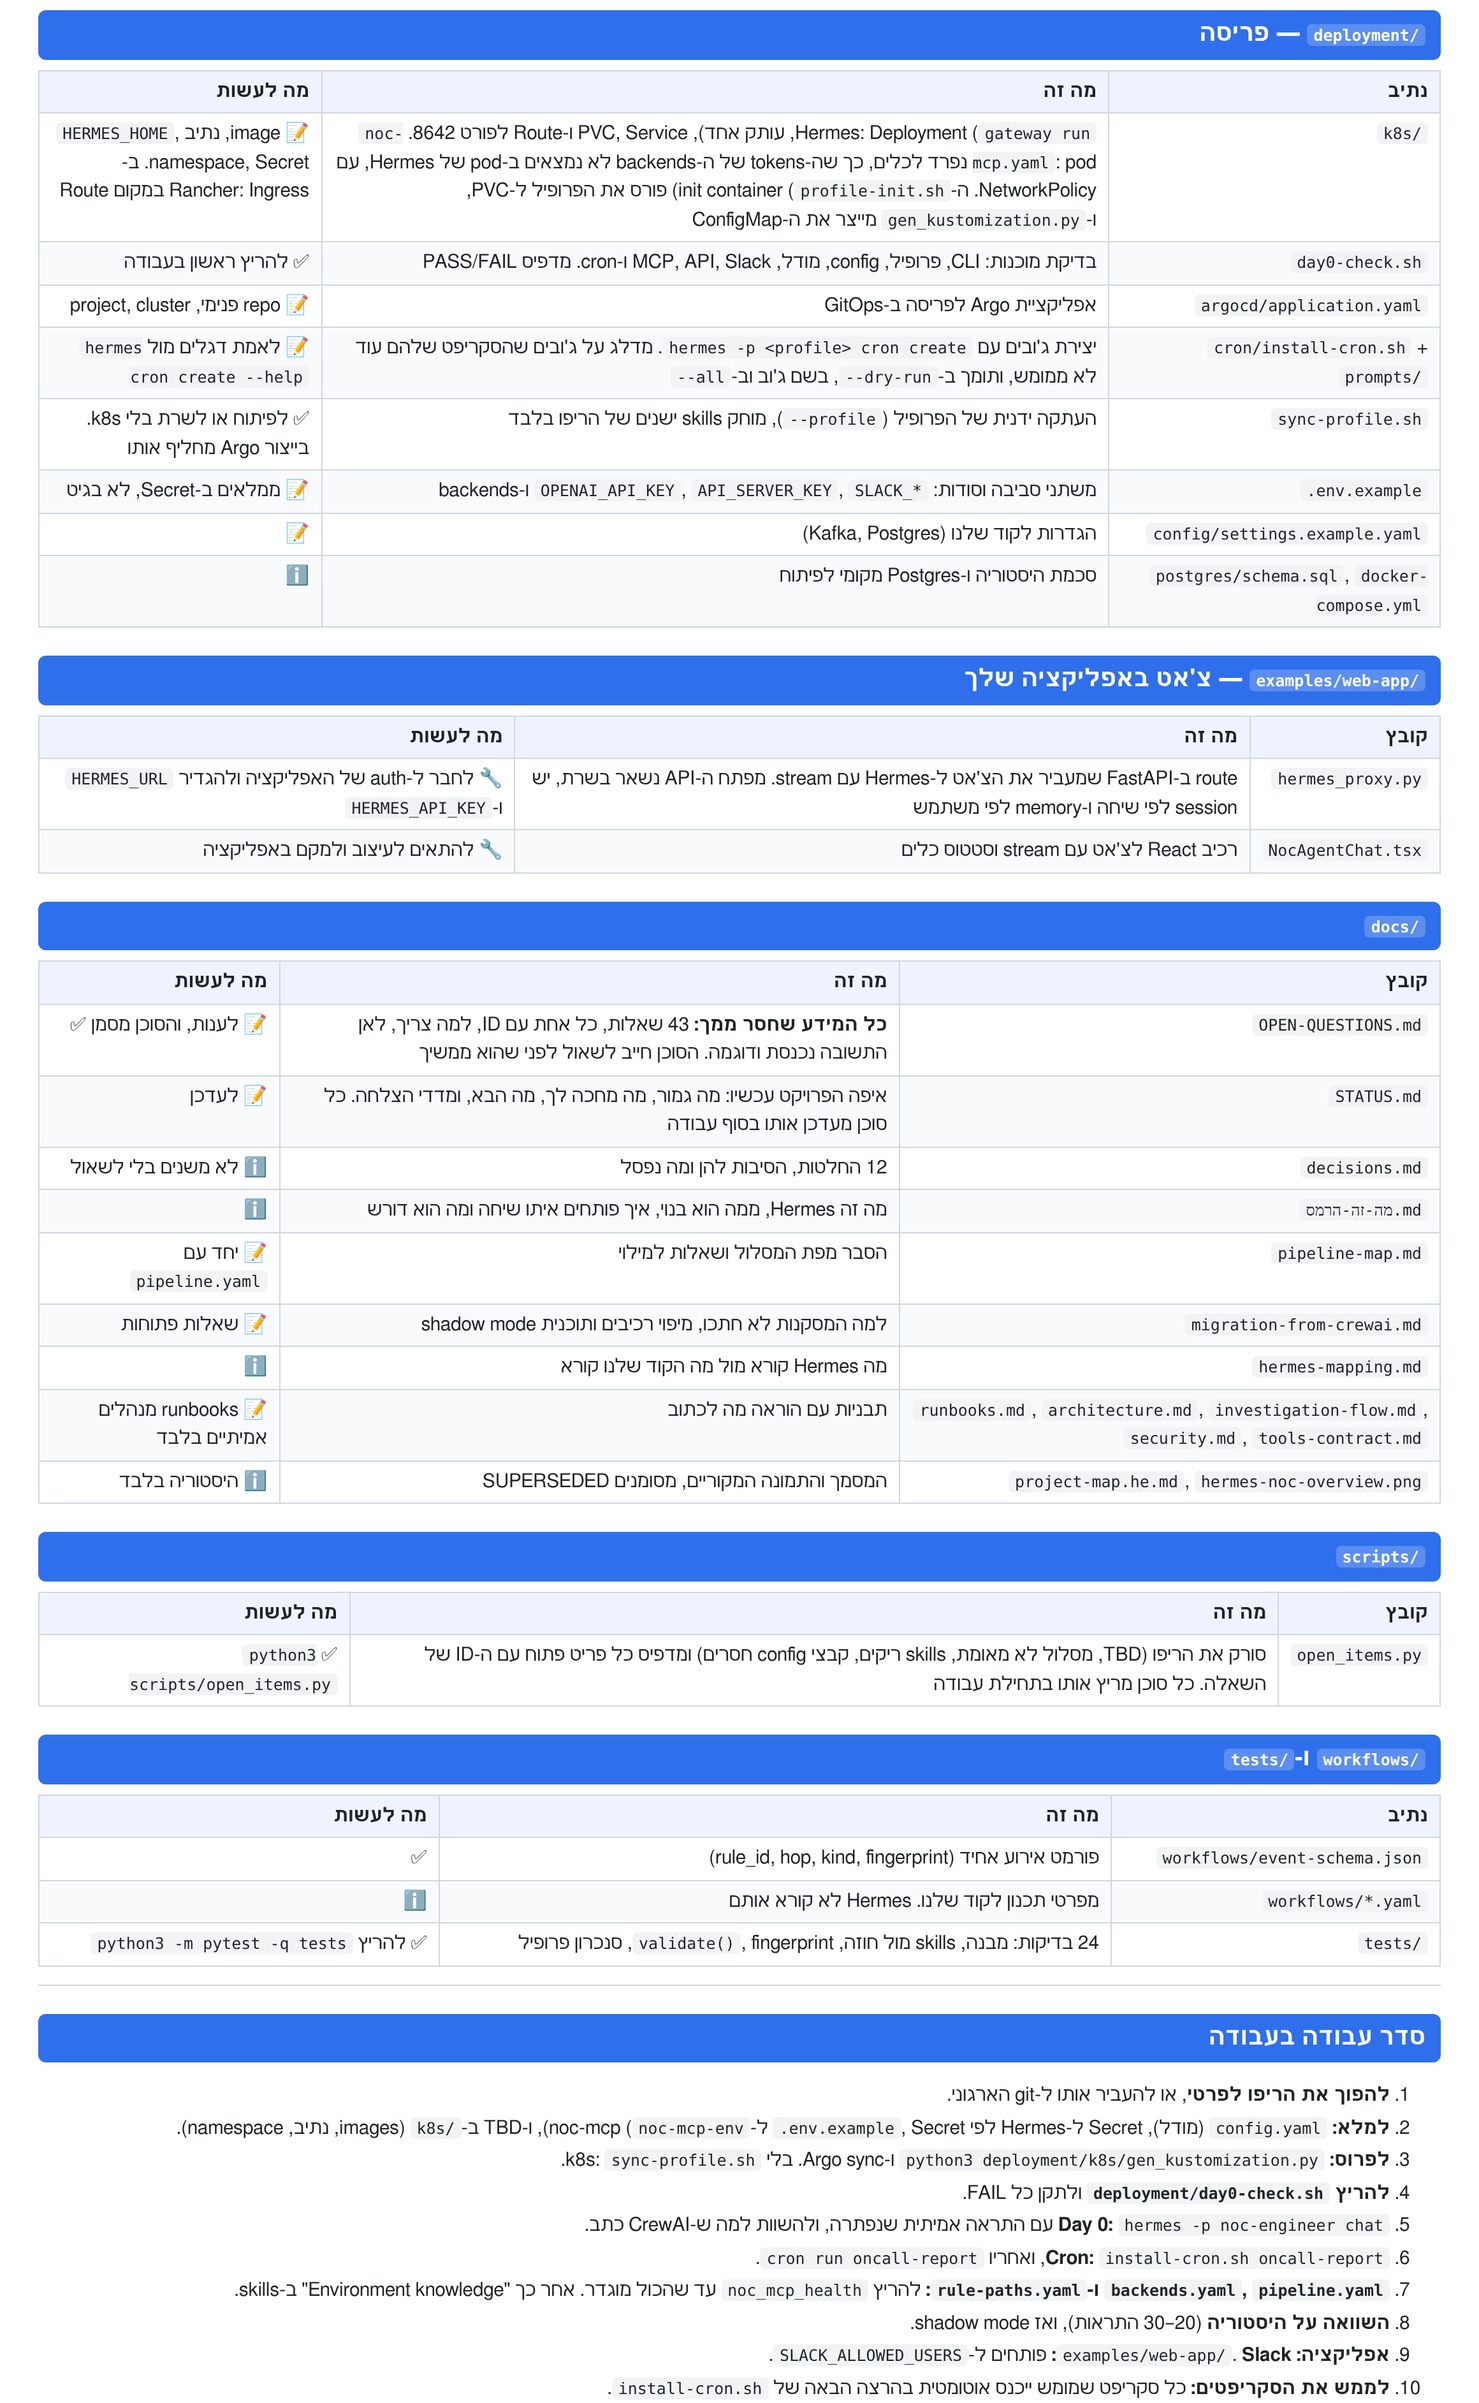
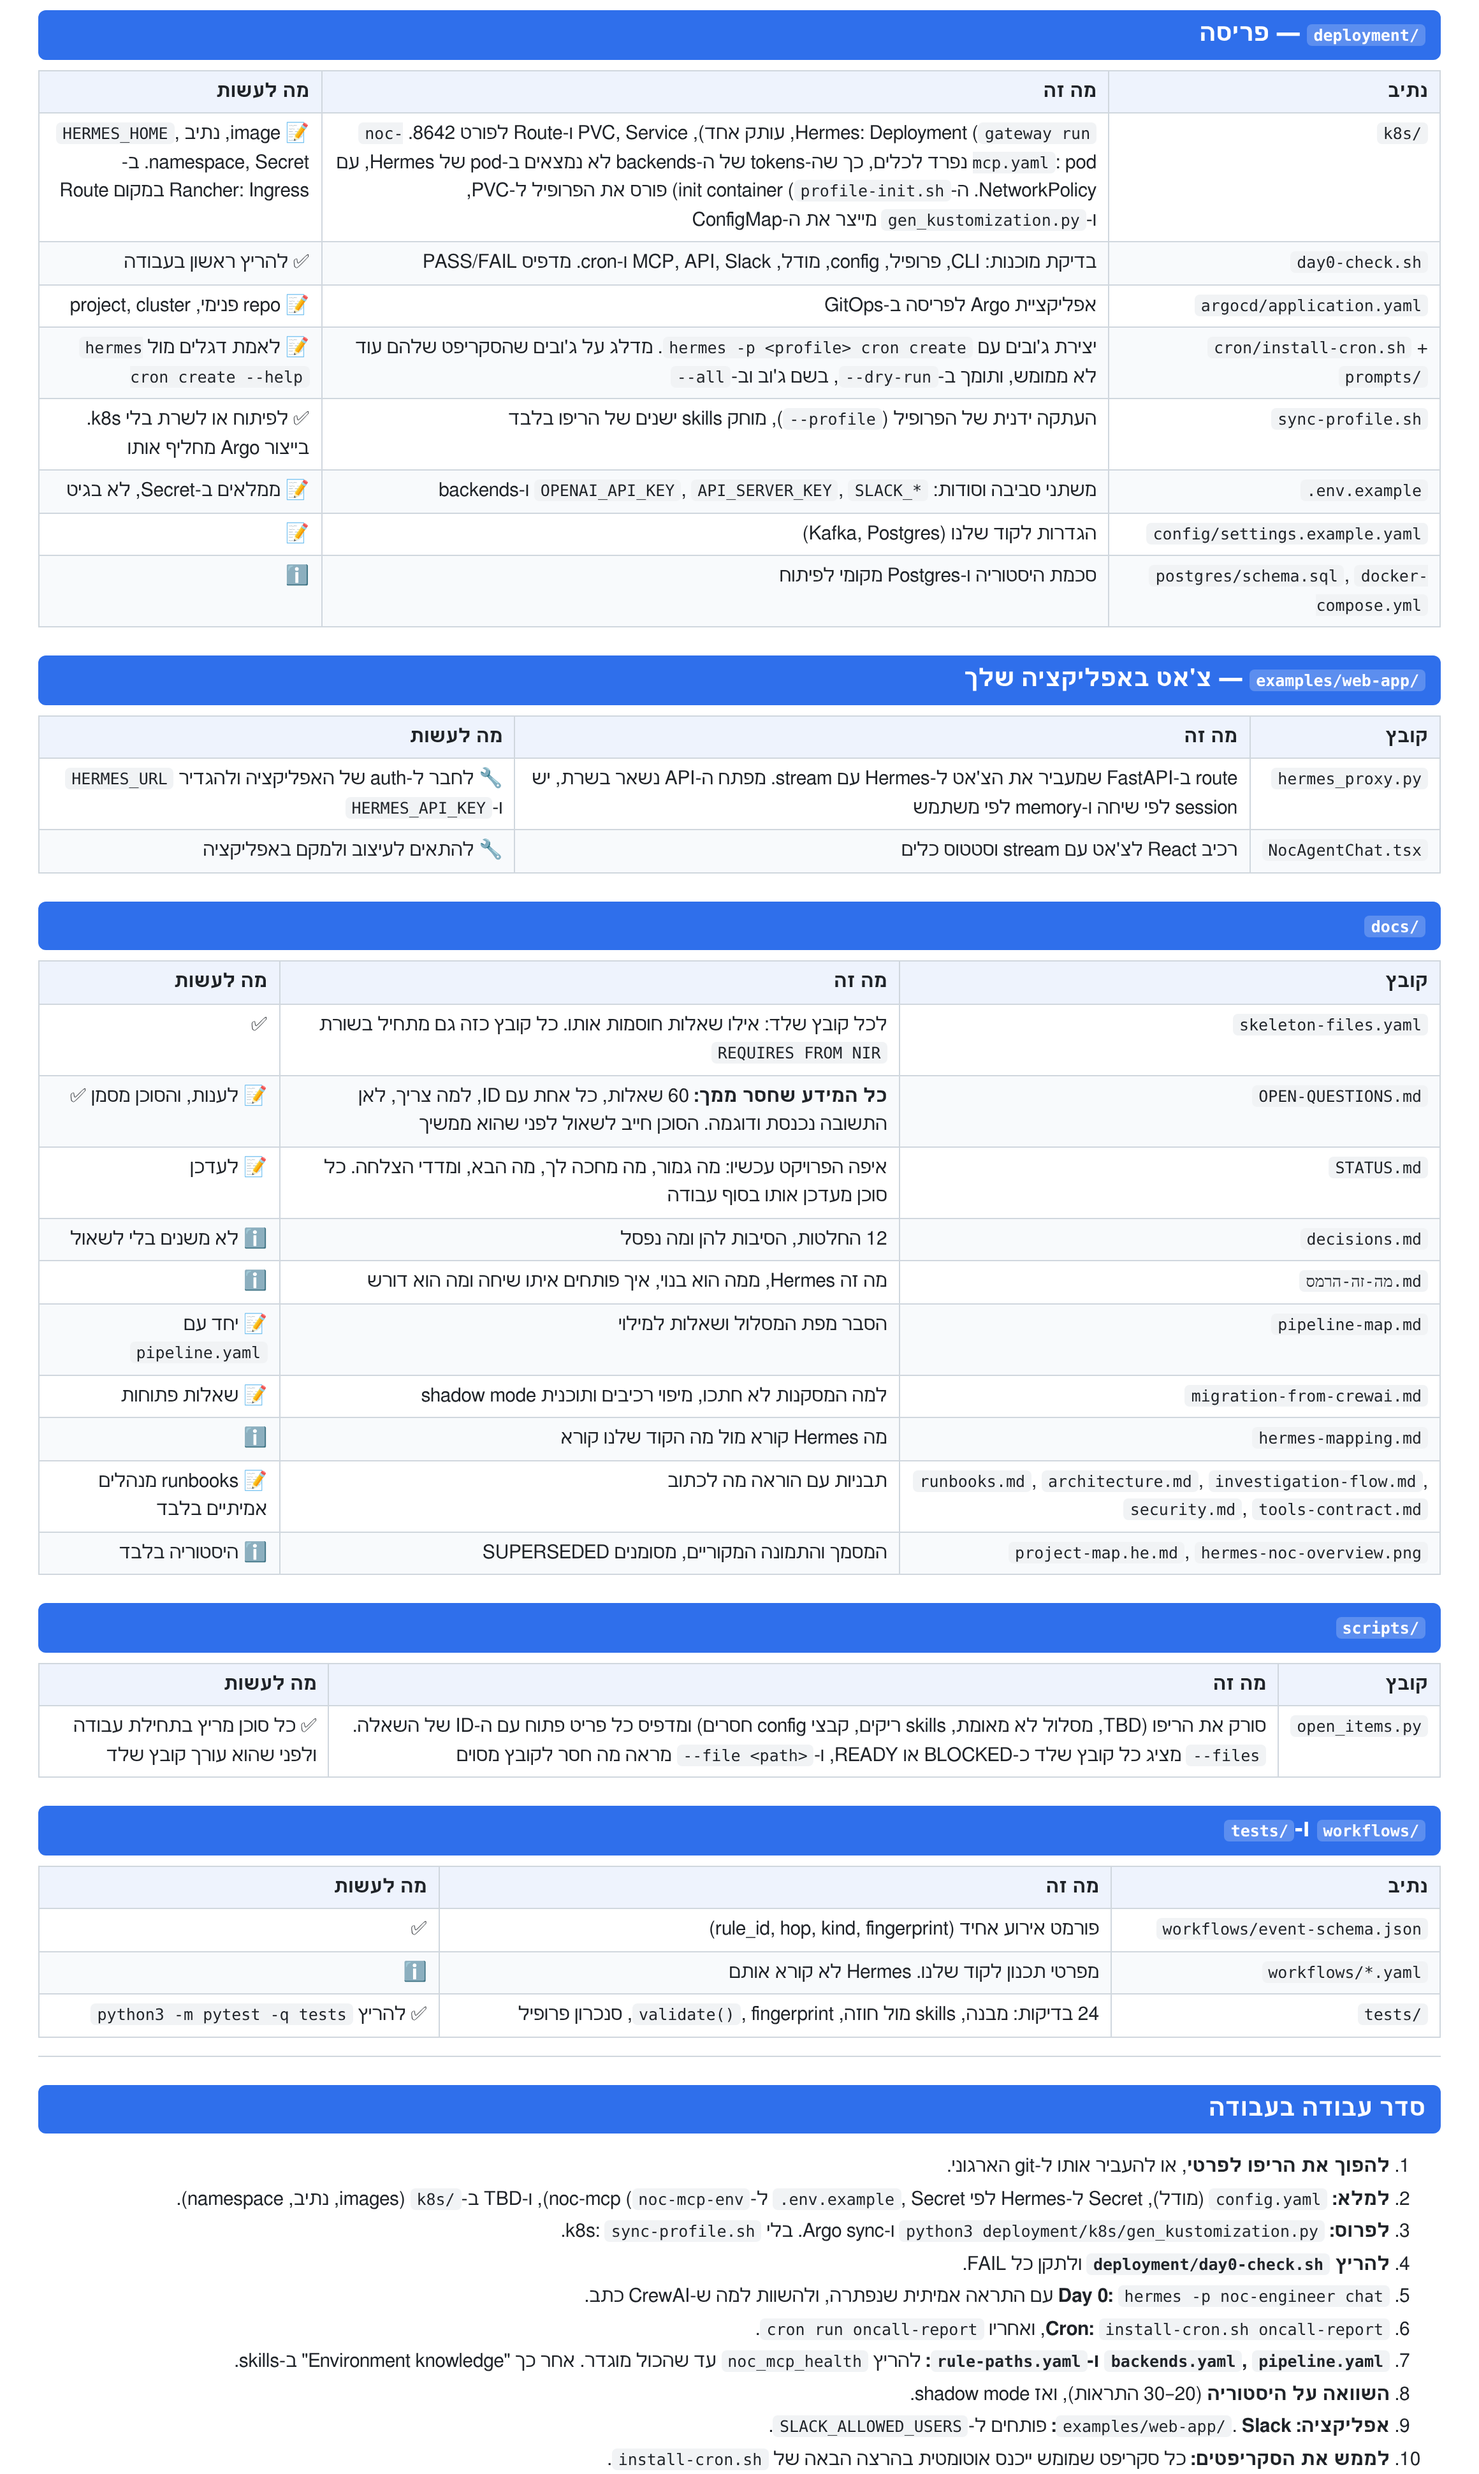
Per-file asking: every skeleton file tagged REQUIRES FROM OWNER + registry (docs/skeleton-files.yaml); scanner --file/--files; 17 new questions (anomaly, ingestion, scripts, report, planned tools, policy)

Changed region(s): [[0.031, 0.0311, 0.9931, 0.9936], [0.8069, 0.0, 0.9621, 0.0621], [0.3103, 0.9315, 0.3414, 0.9626]]

diff --git a/examples/web-app/NocAgentChat.tsx b/examples/web-app/NocAgentChat.tsx
@@ -1,3 +1,4 @@
+// REQUIRES FROM OWNER: D4 (docs/OPEN-QUESTIONS.md). Before implementing/filling run `python3 scripts/open_items.py --file examples/web-app/NocAgentChat.tsx`; if BLOCKED, ask the owner. Never invent.
 // React chat panel for the NOC agent. Talks ONLY to your backend (/api/noc-agent/chat), never to Hermes directly.
 // FOR THE LLM / DEVELOPER: adapt styling to the app; keep messages in state and send the full history each turn
 // (chat completions are stateless; the backend also sends X-Hermes-Session-Id for continuity).

diff --git a/scripts/open_items.py b/scripts/open_items.py
@@ -2,6 +2,8 @@
 """List every fact still missing from the owner, with the question ID from docs/OPEN-QUESTIONS.md.
 
 Run at the start of every session:  python3 scripts/open_items.py   [--json] [--brief]
+Before editing a skeleton file:      python3 scripts/open_items.py --file <path>   (exit 1 = blocked: ask the owner first)
+All skeleton files and their status: python3 scripts/open_items.py --files
 Two sources: (1) signals in the repo (TBD/REPLACE placeholders, unverified pipeline, empty skill knowledge,
 missing config files), (2) questions still marked ❓/⏳ in docs/OPEN-QUESTIONS.md.
 The agent must ASK the owner for these (Hebrew, max 5 at a time) instead of guessing.
@@ -18,6 +20,7 @@ import yaml
 
 ROOT = Path(__file__).resolve().parents[1]
 Q_FILE = ROOT / "docs" / "OPEN-QUESTIONS.md"
+MAP_FILE = ROOT / "docs" / "skeleton-files.yaml"
 
 
 def tbd(v) -> bool:
@@ -31,7 +34,7 @@ def load(p: Path) -> dict:
 def questionnaire() -> dict[str, dict]:
     out = {}
     for line in Q_FILE.read_text().splitlines():
-        m = re.match(r"^\|\s*([A-J]\d+)\s*\|\s*(.+?)\s*\|.*\|\s*(❓|⏳|✅)[^|]*\|\s*$", line)
+        m = re.match(r"^\|\s*([A-Z]\d+)\s*\|\s*(.+?)\s*\|.*\|\s*(❓|⏳|✅)[^|]*\|\s*$", line)
         if m:
             out[m.group(1)] = {"question": m.group(2), "state": m.group(3)}
     return out
@@ -118,12 +121,41 @@ def scan() -> dict[str, list[str]]:
     return f
 
 
+def file_map() -> dict[str, list[str]]:
+    return (yaml.safe_load(MAP_FILE.read_text()) or {}).get("files", {}) if MAP_FILE.exists() else {}
+
+
+def file_status(path: str, open_ids: set[str]) -> list[str]:
+    return [q for q in file_map().get(path, []) if q in open_ids]
+
+
 def main() -> int:
     qs, found = questionnaire(), scan()
     ids = sorted(set(found) | {k for k, v in qs.items() if v["state"] != "✅"},
                  key=lambda x: (x[0], int(x[1:])))
     items = [{"id": i, "question": qs.get(i, {}).get("question", "(missing from OPEN-QUESTIONS.md)"),
               "state": qs.get(i, {}).get("state", "❓"), "evidence": found.get(i, [])} for i in ids]
+    open_ids = {it["id"] for it in items}
+    by_id = {it["id"]: it for it in items}
+    if "--file" in sys.argv:
+        path = sys.argv[sys.argv.index("--file") + 1].removeprefix("./")
+        fm = file_map()
+        if path not in fm:
+            print(f"{path}: not a registered skeleton file (docs/skeleton-files.yaml). If it needs facts from the owner, register it.")
+            return 0
+        blocking = file_status(path, open_ids)
+        if not blocking:
+            print(f"{path}: READY - all required answers are in.")
+            return 0
+        print(f"{path}: BLOCKED. Ask the owner before implementing (Hebrew, max 5 per message):")
+        for q in blocking:
+            print(f"  [{q}] {by_id[q]['question']}")
+        return 1
+    if "--files" in sys.argv:
+        for path, ids in sorted(file_map().items()):
+            blocking = [q for q in ids if q in open_ids]
+            print(f"{'BLOCKED' if blocking else 'READY  '}  {path}" + (f"  <- {', '.join(blocking)}" if blocking else ""))
+        return 0
     if "--json" in sys.argv:
         print(json.dumps(items, ensure_ascii=False, indent=2))
     elif "--brief" in sys.argv:
@@ -135,6 +167,10 @@ def main() -> int:
             print(f"[{it['id']}] {it['state']} {it['question']}")
             for e in it["evidence"]:
                 print(f"      - {e}")
+        fm = file_map()
+        blocked = {p: [q for q in ids if q in open_ids] for p, ids in fm.items()}
+        blocked = {p: b for p, b in blocked.items() if b}
+        print(f"\nSKELETON FILES BLOCKED: {len(blocked)}/{len(fm)}  (python3 scripts/open_items.py --files)")
     return 0
 
 

diff --git a/tests/test_architecture_contracts.py b/tests/test_architecture_contracts.py
@@ -181,3 +181,45 @@ def test_claude_md_has_ask_protocol_and_soul_asks():
     claude = (ROOT / "CLAUDE.md").read_text()
     assert "scripts/open_items.py" in claude and "Never invent" in claude
     assert "## When information is missing" in (ROOT / "hermes-profile" / "SOUL.md").read_text()
+
+
+def test_every_skeleton_file_is_registered_tagged_and_mapped():
+    import re
+    import yaml
+    fm = yaml.safe_load((ROOT / "docs" / "skeleton-files.yaml").read_text())["files"]
+    qtext = (ROOT / "docs" / "OPEN-QUESTIONS.md").read_text()
+    known = set(re.findall(r"^\|\s*([A-Z]\d+)\s*\|", qtext, re.M))
+    for path, ids in fm.items():
+        assert (ROOT / path).exists(), path
+        assert set(ids) <= known, (path, set(ids) - known)
+        text = (ROOT / path).read_text()
+        if ids and not path.endswith("SKILL.md"):
+            m = re.search(r"REQUIRES FROM OWNER: ([A-Z0-9, ]+)", text)
+            assert m and {x.strip() for x in m.group(1).split(",")} == set(ids), path
+        if path.endswith("SKILL.md"):
+            assert "REQUIRES FROM OWNER" not in text, path      # skills are model prompts
+    stubs = []
+    for p in ROOT.rglob("*"):
+        rel = p.relative_to(ROOT).as_posix()
+        if not p.is_file() or rel.startswith((".git/", "tests/", "scripts/")) or p.suffix not in (".py", ".md", ".yaml", ".sh", ".tsx"):
+            continue
+        t = p.read_text(errors="ignore")
+        if "raise NotImplementedError" in t or "What to implement" in t or re.search(r"\bTBD\b", t):
+            stubs.append(rel)
+    allowed_docs = {"README.md", "noc-mcp/README.md", "CLAUDE.md", "AGENTS.md", "docs/OPEN-QUESTIONS.md", "docs/STATUS.md",
+                    "docs/מדריך-הפרויקט.md", "docs/hermes-mapping.md", "docs/migration-from-crewai.md", "docs/tools-contract.md",
+                    "docs/decisions.md", "docs/skeleton-files.yaml", "deployment/k8s/README.md", "deployment/k8s/gen_kustomization.py",
+                    "deployment/cron/README.md", "deployment/docker-compose.yml", "deployment/day0-check.sh", "deployment/sync-profile.sh",
+                    "hermes-profile/AUTHORING.md", "noc-mcp/schemas/common.py", "noc-mcp/schemas/pipeline.py", "noc-mcp/tools/pipeline.py",
+                    "noc-mcp/tools/rules.py", "noc-mcp/tools/servers.py", "noc-mcp/tools/kafka.py", "noc-mcp/config/README.md",
+                    "noc-mcp/tests/README.md", "noc-mcp/security/README.md", "workflows/README.md", "docs/project-map.he.md",
+                    "docs/מה-זה-הרמס.md"}
+    unregistered = [s for s in stubs if s not in fm and s not in allowed_docs and not s.startswith("workflows/")]
+    assert not unregistered, unregistered
+
+
+def test_file_mode_blocks_and_exits_nonzero():
+    import subprocess
+    r = subprocess.run(["python3", str(ROOT / "scripts" / "open_items.py"), "--file", "anomaly-engine/detection.py"],
+                       capture_output=True, text=True)
+    assert r.returncode == 1 and "BLOCKED" in r.stdout and "[K1]" in r.stdout

diff --git a/deployment/k8s/gen_kustomization.py b/deployment/k8s/gen_kustomization.py
@@ -19,7 +19,8 @@ def render() -> str:
     for p in sorted(PROFILE.glob("scripts/*.py")):
         files.append(f"scripts__{p.name}=../../hermes-profile/scripts/{p.name}")
     lines = "\n".join(f"      - {f}" for f in files)
-    return f"""# GENERATED by gen_kustomization.py - do not edit by hand. VERIFY the namespace.
+    return f"""# REQUIRES FROM OWNER: C1 (docs/OPEN-QUESTIONS.md). Before implementing/filling run `python3 scripts/open_items.py --file deployment/k8s/kustomization.yaml`; if BLOCKED, ask the owner. Never invent.
+# GENERATED by gen_kustomization.py - do not edit by hand. VERIFY the namespace.
 apiVersion: kustomize.config.k8s.io/v1beta1
 kind: Kustomization
 namespace: TBD-noc-engineer

diff --git a/examples/web-app/hermes_proxy.py b/examples/web-app/hermes_proxy.py
@@ -1,5 +1,7 @@
 """Backend proxy: lets your web app's chat talk to Hermes without exposing API_SERVER_KEY to the browser.
 
+REQUIRES FROM OWNER: D4, P2 (docs/OPEN-QUESTIONS.md). Before implementing/filling run `python3 scripts/open_items.py --file examples/web-app/hermes_proxy.py`; if BLOCKED, ask the owner. Never invent.
+
 FOR THE LLM / DEVELOPER OPENING THIS FILE
 Drop this router into the app's existing Python backend (FastAPI). It streams Hermes' answer back to the UI.
 - Hermes API: OpenAI-compatible, POST {HERMES_URL}/v1/chat/completions, Bearer API_SERVER_KEY.

diff --git a/hermes-profile/scripts/anomaly_baseline.py b/hermes-profile/scripts/anomaly_baseline.py
@@ -1,5 +1,7 @@
 """No-agent cron script: anomaly_baseline.
 
+REQUIRES FROM OWNER: K3, E3, E4 (docs/OPEN-QUESTIONS.md). Before implementing/filling run `python3 scripts/open_items.py --file hermes-profile/scripts/anomaly_baseline.py`; if BLOCKED, ask the owner. Never invent.
+
 FOR THE LLM / DEVELOPER OPENING THIS FILE
 Hermes runs this script on schedule (hermes cron create --no-agent --script) and delivers its STDOUT verbatim. No LLM is involved.
 What to implement:

diff --git a/hermes-profile/scripts/anomaly_scan.py b/hermes-profile/scripts/anomaly_scan.py
@@ -1,5 +1,7 @@
 """Script feeding the `proactive-review` agent cron job (every 15 min).
 
+REQUIRES FROM OWNER: K1, K2, K3, E2, E3, E4 (docs/OPEN-QUESTIONS.md). Before implementing/filling run `python3 scripts/open_items.py --file hermes-profile/scripts/anomaly_scan.py`; if BLOCKED, ask the owner. Never invent.
+
 FOR THE LLM / DEVELOPER OPENING THIS FILE
 Hermes runs this script before the agent and passes its STDOUT to the agent as context.
 What to implement:

diff --git a/hermes-profile/scripts/data_quality_scan.py b/hermes-profile/scripts/data_quality_scan.py
@@ -1,5 +1,7 @@
 """No-agent cron script: data_quality_scan.
 
+REQUIRES FROM OWNER: M1 (docs/OPEN-QUESTIONS.md). Before implementing/filling run `python3 scripts/open_items.py --file hermes-profile/scripts/data_quality_scan.py`; if BLOCKED, ask the owner. Never invent.
+
 FOR THE LLM / DEVELOPER OPENING THIS FILE
 Hermes runs this script on schedule (hermes cron create --no-agent --script) and delivers its STDOUT verbatim. No LLM is involved.
 What to implement:

diff --git a/hermes-profile/scripts/enrichment_audit.py b/hermes-profile/scripts/enrichment_audit.py
@@ -1,5 +1,7 @@
 """No-agent cron script: enrichment_audit.
 
+REQUIRES FROM OWNER: M2 (docs/OPEN-QUESTIONS.md). Before implementing/filling run `python3 scripts/open_items.py --file hermes-profile/scripts/enrichment_audit.py`; if BLOCKED, ask the owner. Never invent.
+
 FOR THE LLM / DEVELOPER OPENING THIS FILE
 Hermes runs this script on schedule (hermes cron create --no-agent --script) and delivers its STDOUT verbatim. No LLM is involved.
 What to implement:

diff --git a/hermes-profile/scripts/jira_poll.py b/hermes-profile/scripts/jira_poll.py
@@ -1,5 +1,7 @@
 """No-agent cron script: jira_poll.
 
+REQUIRES FROM OWNER: H1, H2, L3, L4 (docs/OPEN-QUESTIONS.md). Before implementing/filling run `python3 scripts/open_items.py --file hermes-profile/scripts/jira_poll.py`; if BLOCKED, ask the owner. Never invent.
+
 FOR THE LLM / DEVELOPER OPENING THIS FILE
 Hermes runs this script on schedule (hermes cron create --no-agent --script) and delivers its STDOUT verbatim. No LLM is involved.
 What to implement:

diff --git a/hermes-profile/scripts/housekeeping.py b/hermes-profile/scripts/housekeeping.py
@@ -1,5 +1,7 @@
 """No-agent cron script: housekeeping.
 
+REQUIRES FROM OWNER: M3, C3 (docs/OPEN-QUESTIONS.md). Before implementing/filling run `python3 scripts/open_items.py --file hermes-profile/scripts/housekeeping.py`; if BLOCKED, ask the owner. Never invent.
+
 FOR THE LLM / DEVELOPER OPENING THIS FILE
 Hermes runs this script on schedule (hermes cron create --no-agent --script) and delivers its STDOUT verbatim. No LLM is involved.
 What to implement:

diff --git a/noc-mcp/tools/infrastructure.py b/noc-mcp/tools/infrastructure.py
@@ -1,4 +1,6 @@
 """
+
+REQUIRES FROM OWNER: O3, G6 (docs/OPEN-QUESTIONS.md). Before implementing/filling run `python3 scripts/open_items.py --file noc-mcp/tools/infrastructure.py`; if BLOCKED, ask the owner. Never invent.
 noc-mcp tools: infrastructure (Kubernetes: Rancher + OpenShift; Postgres; ECK health).
 
 FOR THE LLM / DEVELOPER OPENING THIS FILE
